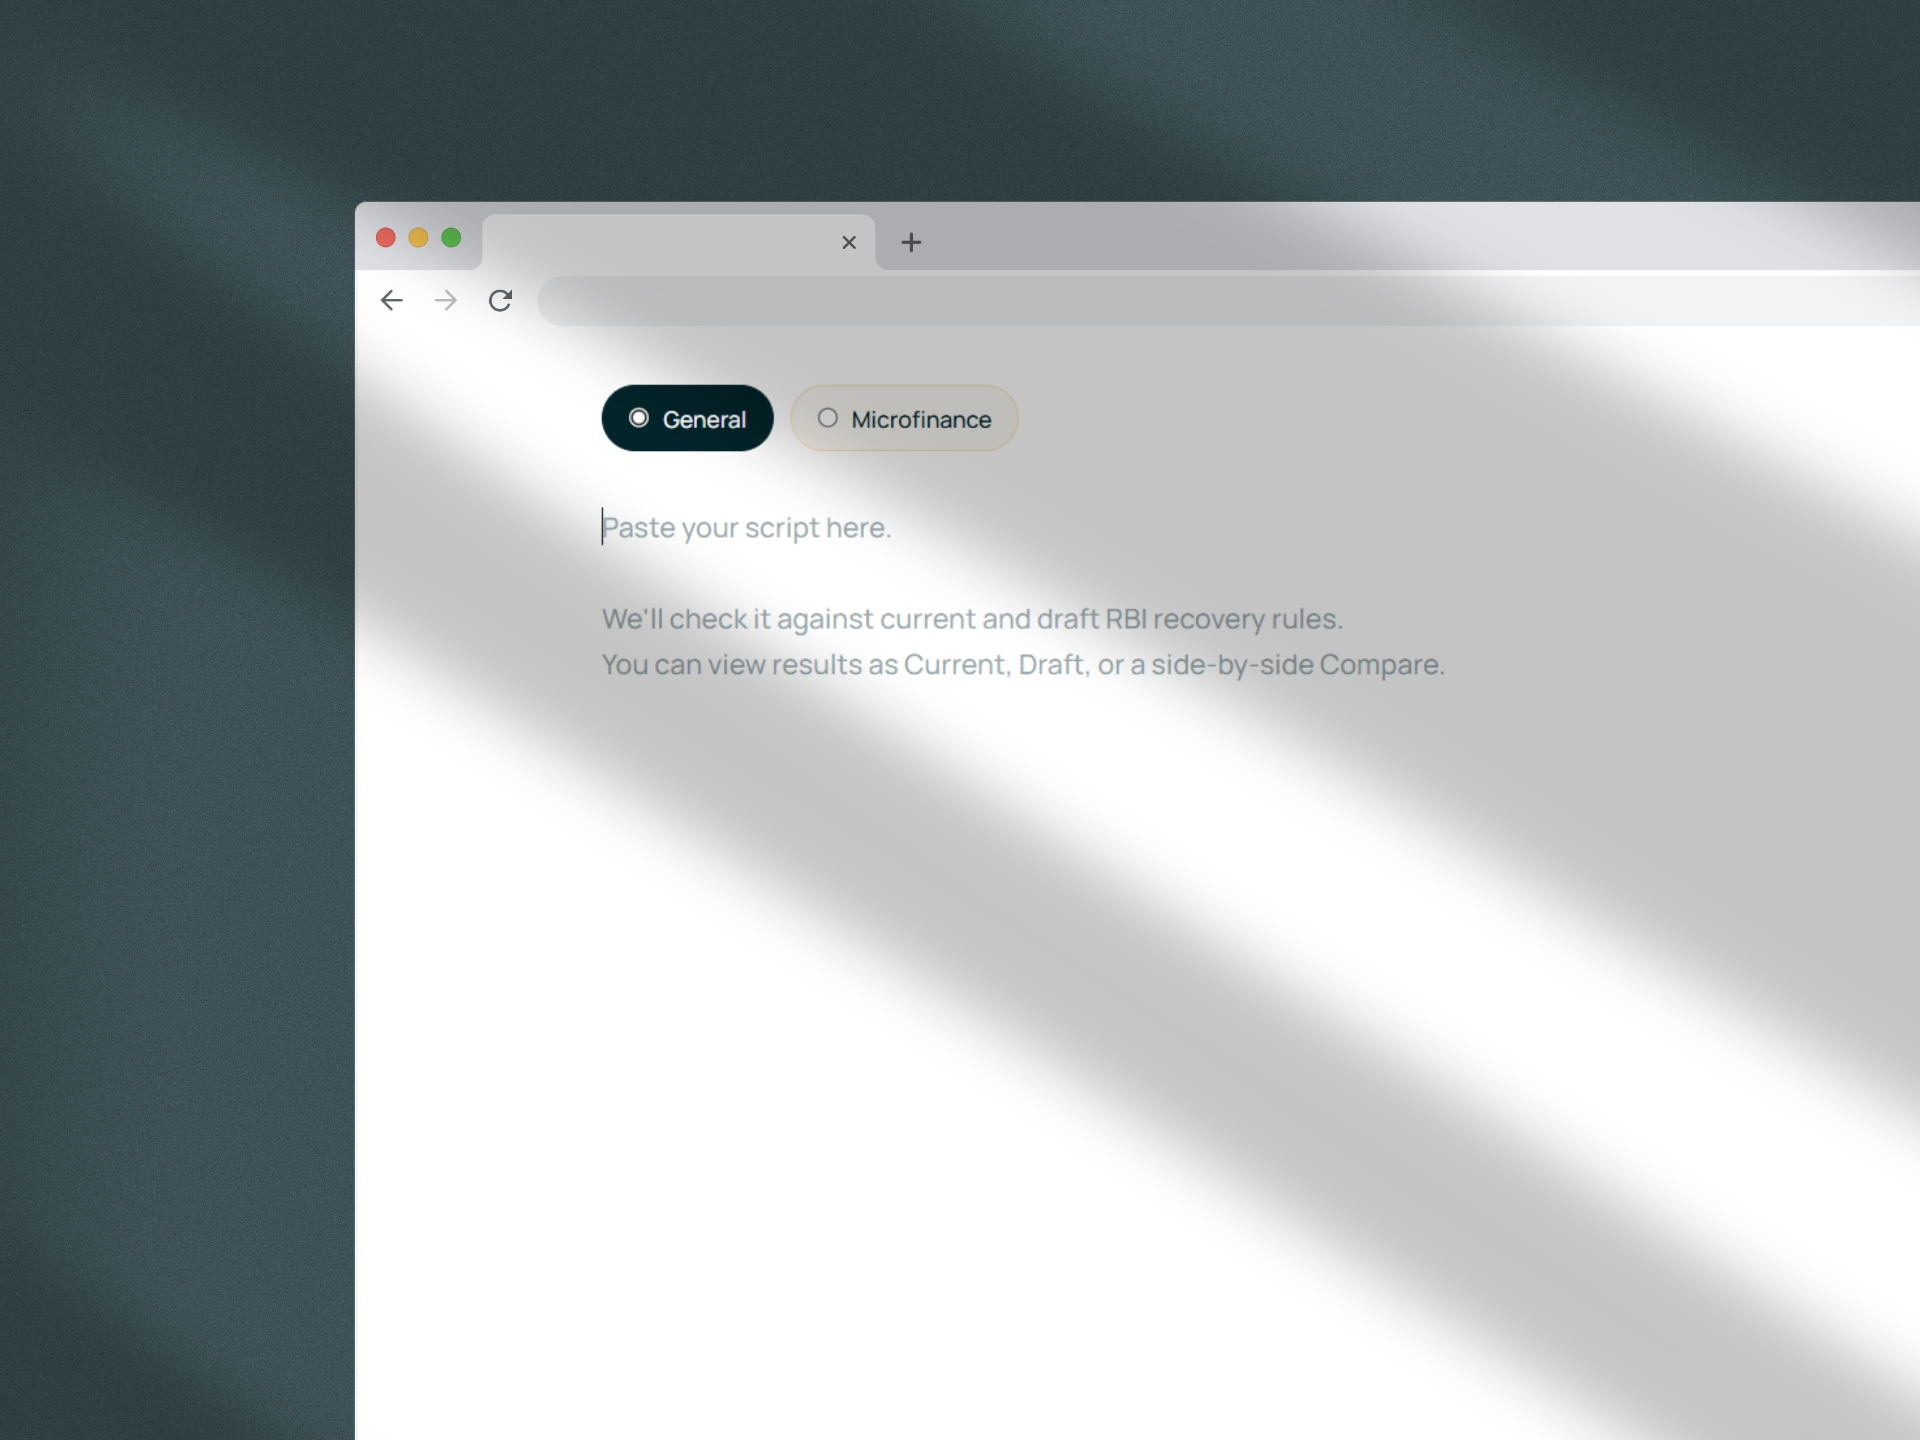
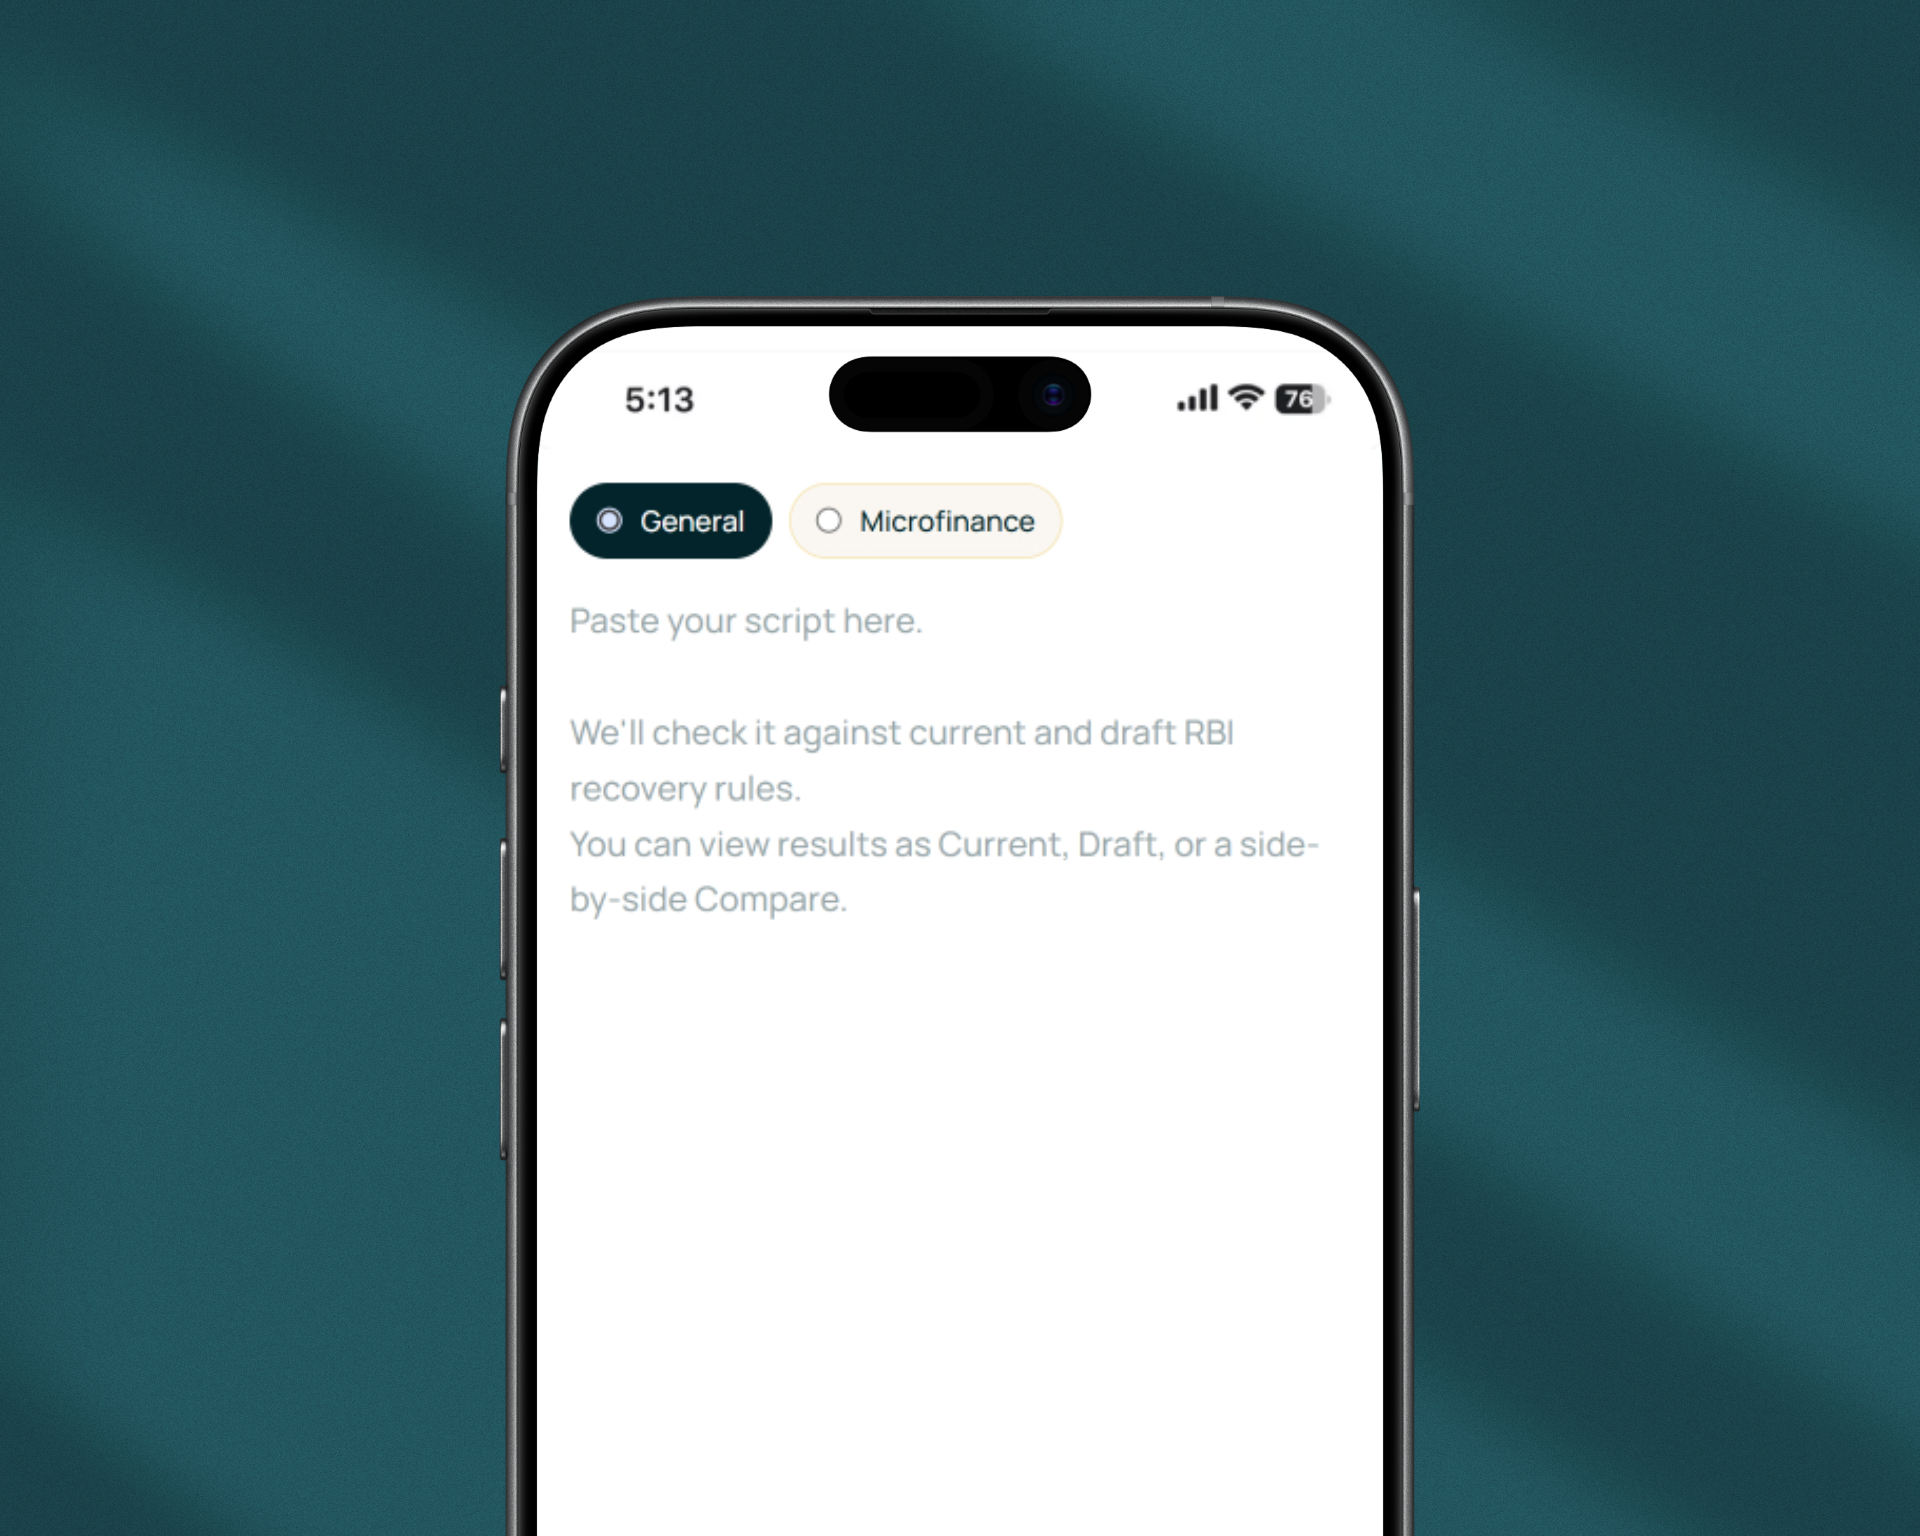
Update Idea Section

diff --git a/src/components/ui/IdeasSection.module.css b/src/components/ui/IdeasSection.module.css
@@ -3,7 +3,7 @@
 }
 
 .container {
-  max-width: 1440px;
+  max-width: var(--max-width-container);
   margin: 0 auto;
   padding: 120px 24px;
   display: flex;
@@ -35,8 +35,7 @@
 }
 
 .cardsGrid {
-  display: grid;
-  grid-template-columns: repeat(3, 1fr);
+  display: flex;
   gap: 16px;
   width: 100%;
 }
@@ -44,13 +43,22 @@
 .ideaCard {
   position: relative;
   display: block;
-  width: 100%;
-  aspect-ratio: 7 / 6;
+  height: 480px;
+  border-radius: 36px;
   background-color: var(--color-primary-dark);
   text-decoration: none;
   color: inherit;
   overflow: hidden;
   cursor: pointer;
+}
+
+.ideaCard:nth-child(1),
+.ideaCard:nth-child(3) {
+  width: 60%;
+}
+
+.ideaCard:nth-child(2) {
+  width: stretch;
 }
 
 /* IMAGE LAYER — fades on hover, revealing the card's bg color */
@@ -154,29 +162,24 @@
   }
 
   .cardsGrid {
-    grid-template-columns: repeat(2, 1fr);
-    column-gap: 16px;
-    row-gap: 32px;
-  }
-
-  .ideaCard:nth-child(1) {
-    grid-column: 1 / -1;
-  }
-
-  /* Image on top, title below, desc + arrow stay hidden regardless of hover */
-  .ideaCard {
-    display: flex;
     flex-direction: column;
-    aspect-ratio: auto;
-    height: auto;
-    background-color: transparent;
+    gap: 24px;
+  }
+
+  .ideaCard,
+  .ideaCard:nth-child(1),
+  .ideaCard:nth-child(2),
+  .ideaCard:nth-child(3) {
+    width: 100%;
+    height: 320px;
+    border-radius: 28px;
   }
 
   .cardImage {
-    position: relative;
-    inset: auto;
+    position: absolute;
+    inset: 0;
     width: 100%;
-    aspect-ratio: 4 / 3;
+    height: 100%;
     opacity: 1 !important;
     filter: none !important;
   }
@@ -185,23 +188,7 @@
     display: none;
   }
 
-  .overlayBottom {
-    position: relative;
-    opacity: 1 !important;
-    z-index: auto;
-  }
-
   .overlayContent {
-    padding: 16px 0px;
-    gap: 4px;
-  }
-
-  .ideaTitle {
-    font-size: 1.4rem;
-    color: var(--color-text);
-  }
-
-  .ideaDescription {
     display: none;
   }
 }
@@ -212,11 +199,15 @@
   }
 
   .cardsGrid {
-    grid-template-columns: 1fr;
-    gap: 24px;
+    flex-direction: column;
+    gap: 20px;
   }
 
-  .ideaCard:nth-child(1) {
-    grid-column: auto;
+  .ideaCard,
+  .ideaCard:nth-child(1),
+  .ideaCard:nth-child(2),
+  .ideaCard:nth-child(3) {
+    width: 100%;
+    height: 280px;
   }
 }

diff --git a/src/components/ui/IdeasSection.jsx b/src/components/ui/IdeasSection.jsx
@@ -10,24 +10,24 @@ const ArrowIcon = ({ className }) => (
 const ideas = [
   {
     id: "01",
-    title: "People's Museum",
-    description: "People's Museum is a digital museum for preserving meaningful personal objects and the stories behind them.",
-    url: "https://peoples-museum.figma.site/",
-    image: "/images/assets/prototypes/peoples_museum.png",
+    title: "Compliance Lens",
+    description: "Compliance tool designed to evaluate agent scripts against regulations",
+    url: "https://compliancelens.vercel.app/",
+    image: "/images/assets/prototypes/compliance_lens.jpeg",
   },
   {
     id: "02",
-    title: "Silence Chamber",
-    description: "You wake up in an invisible maze where the only way to see is to speak. Every word reveals the world ⚆_⚆ and your location.",
-    url: "https://silence-chamber.figma.site/",
-    image: "/images/assets/prototypes/silence_chamber.png",
+    title: "People's Museum",
+    description: "People's Museum is a digital museum for preserving meaningful personal objects and the stories behind them.",
+    url: "https://peoples-museum.figma.site/",
+    image: "/images/assets/prototypes/peoples_museum.jpeg",
   },
   {
     id: "03",
-    title: "Compliance Lens",
-    description: "Compliance auditing tool designed to evaluate lending agent scripts against RBI's regulatory frameworks",
-    url: "https://compliancelens.vercel.app/",
-    image: "/images/assets/prototypes/compliance_lens.jpeg",
+    title: "Silence Chamber",
+    description: "You wake up in an invisible maze where the only way to see is to speak.",
+    url: "https://silence-chamber.figma.site/",
+    image: "/images/assets/prototypes/silence_chamber.png",
   }
 ];
 

diff --git a/src/components/layout/Footer.module.css b/src/components/layout/Footer.module.css
@@ -8,7 +8,7 @@
 
 /* ─── Inner container ───────────────────────────────────────────── */
 .container {
-  max-width: 1440px;
+  max-width: var(--max-width-container);
   margin: 0 auto;
   padding: var(--spacing-xl) 24px var(--spacing-lg);
 }

diff --git a/src/styles/globals.css b/src/styles/globals.css
@@ -26,6 +26,8 @@
   --spacing-md: 32px;
   --spacing-lg: 64px;
   --spacing-xl: 120px;
+
+  --max-width-container: 1440px;
 }
 
 /* Dark Mode — same token names, alternate values.

diff --git a/src/components/ui/WorksSection.module.css b/src/components/ui/WorksSection.module.css
@@ -3,7 +3,7 @@
 }
 
 .container {
-  max-width: 1440px;
+  max-width: var(--max-width-container);
   margin: 0 auto;
   padding: 120px 24px;
   display: flex;

diff --git a/src/components/ui/PrototypesSection.module.css b/src/components/ui/PrototypesSection.module.css
@@ -5,7 +5,7 @@
 }
 
 .container {
-  max-width: 1440px;
+  max-width: var(--max-width-container);
   margin: 0 auto;
   padding: 0 24px;
   display: flex;

diff --git a/src/components/layout/Navbar.module.css b/src/components/layout/Navbar.module.css
@@ -15,7 +15,7 @@
 }
 
 .nav {
-  max-width: 1440px;
+  max-width: var(--max-width-container);
   margin: 0 auto;
   padding: 24px;
   display: flex;

diff --git a/src/components/home/Hero.module.css b/src/components/home/Hero.module.css
@@ -1,5 +1,5 @@
 .hero {
-  max-width: 1440px;
+  max-width: var(--max-width-container);
   margin: 0 auto;
   min-height: 70vh;
   display: flex;

diff --git a/src/components/ui/ReviewsSection.module.css b/src/components/ui/ReviewsSection.module.css
@@ -4,7 +4,7 @@
 }
 
 .container {
-  max-width: 1440px;
+  max-width: var(--max-width-container);
   margin: 0 auto;
   padding: 0 24px;
 }
